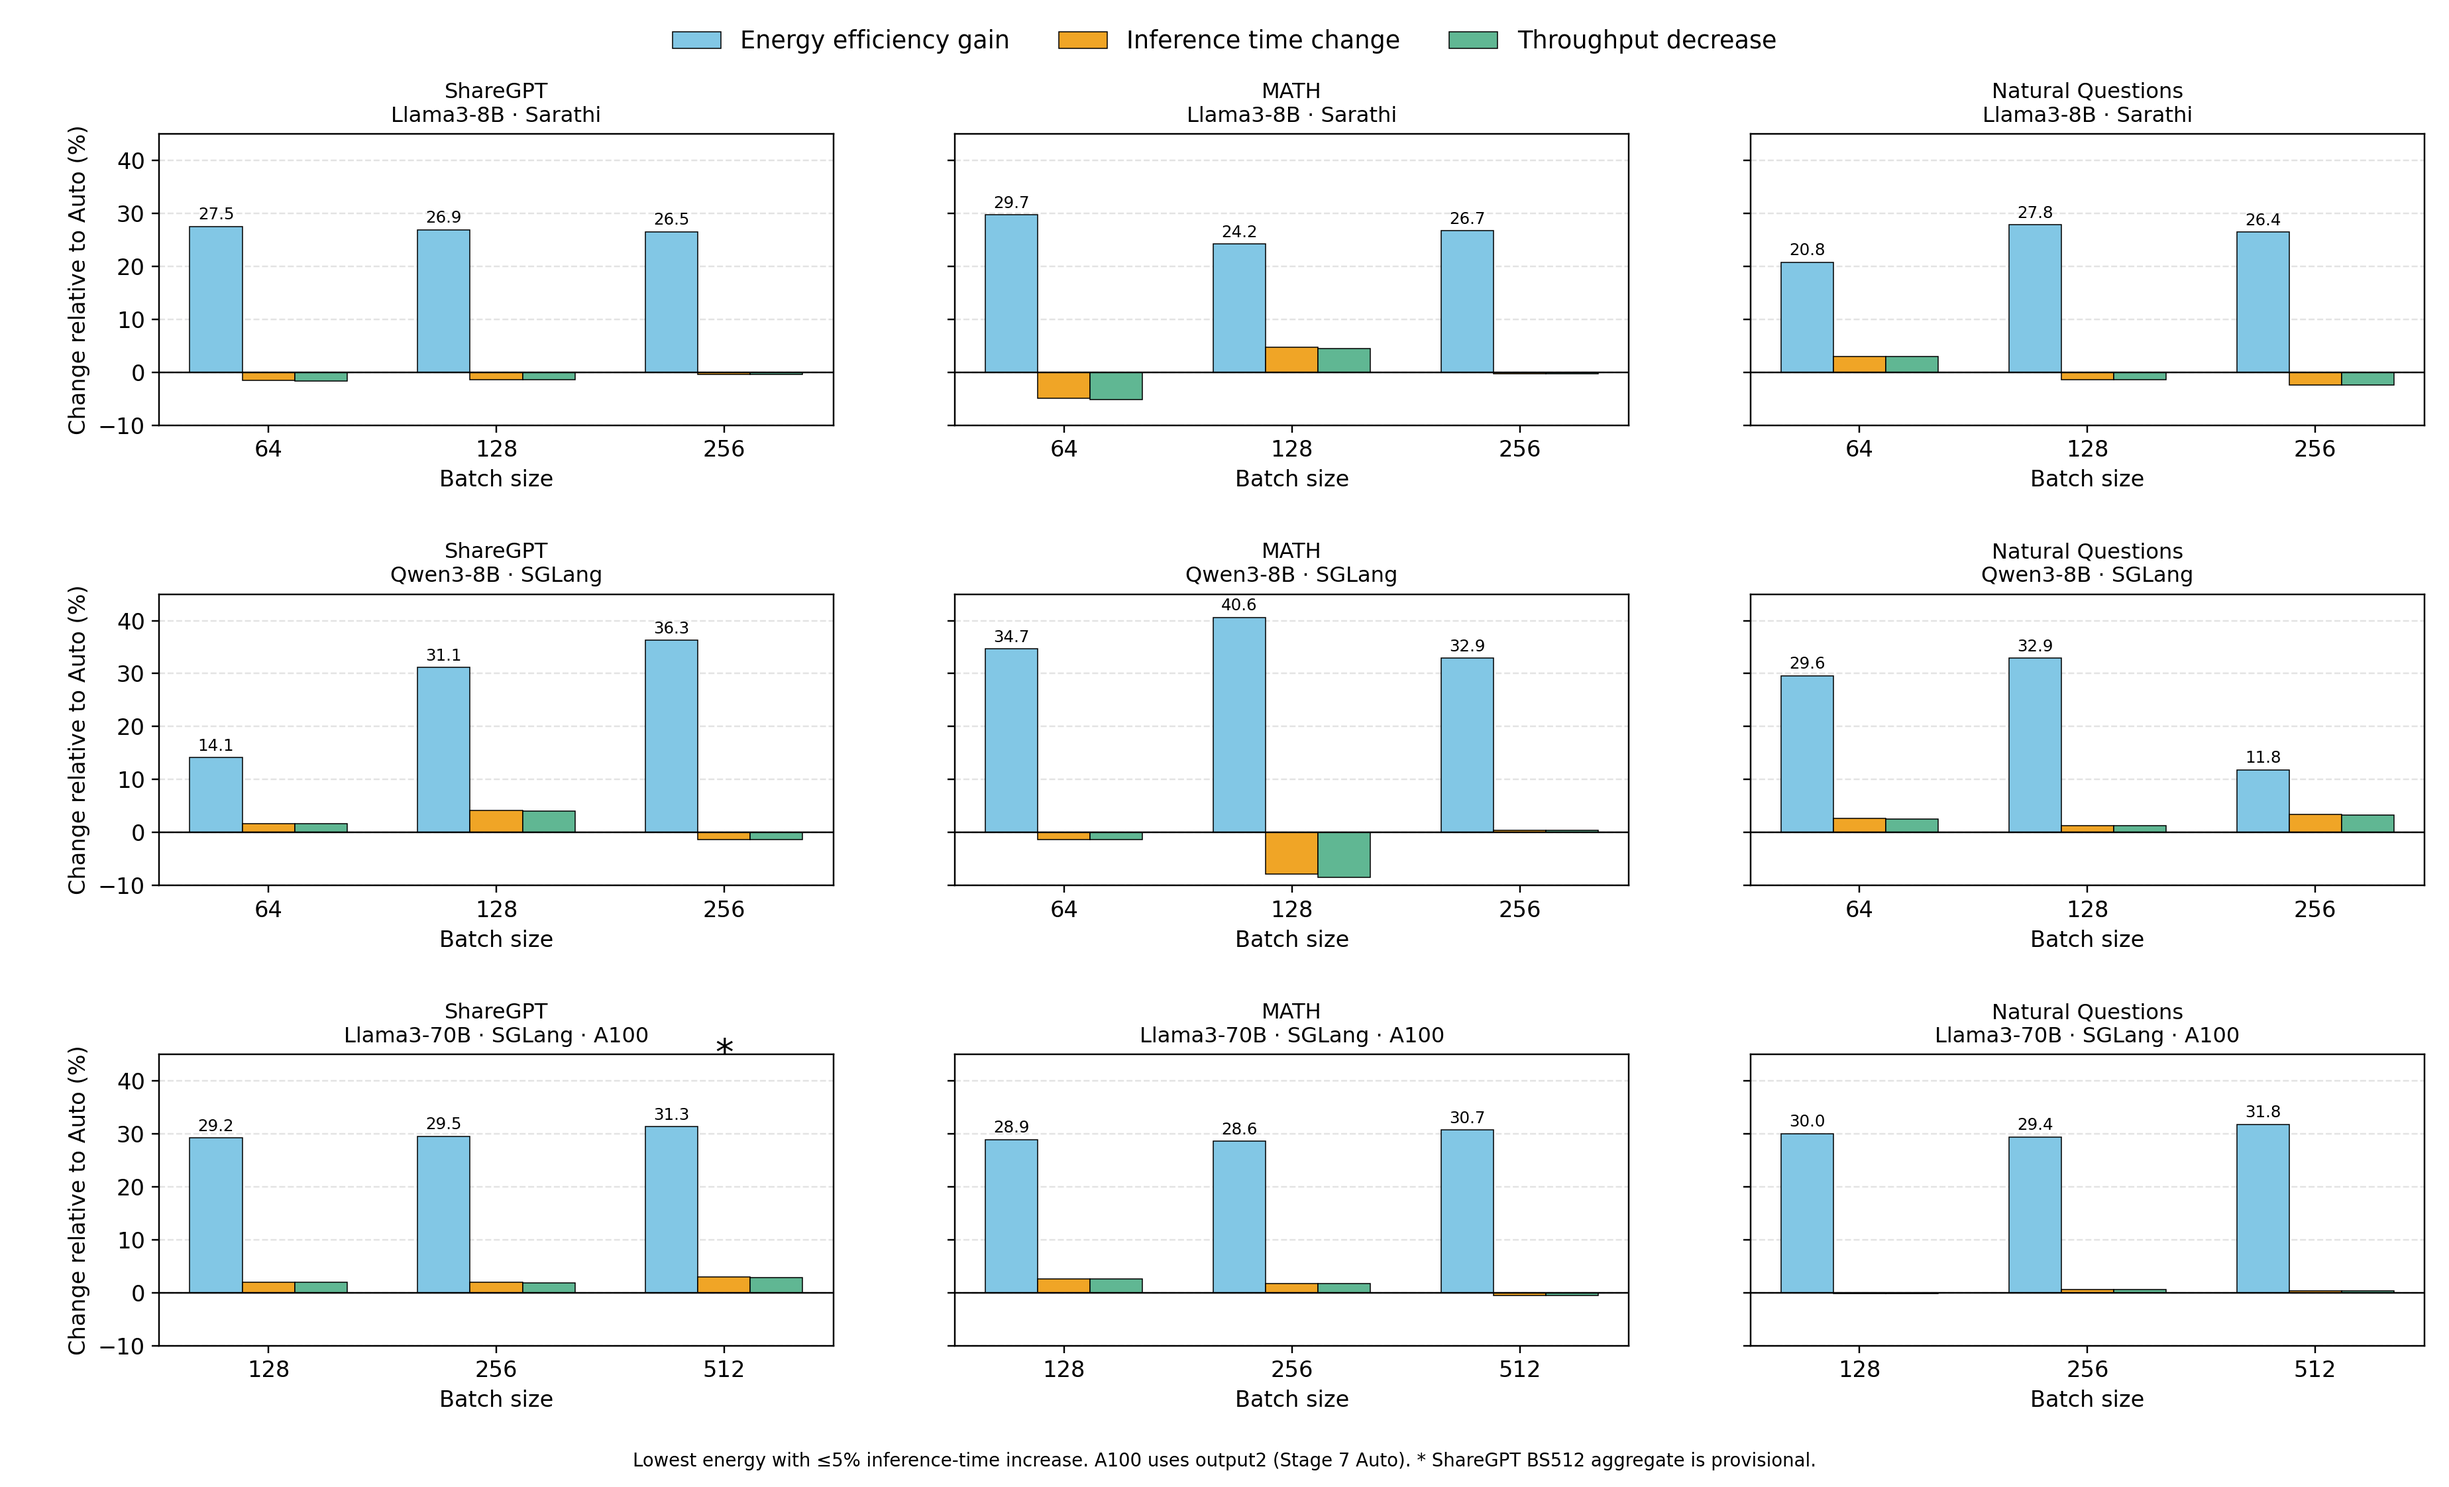
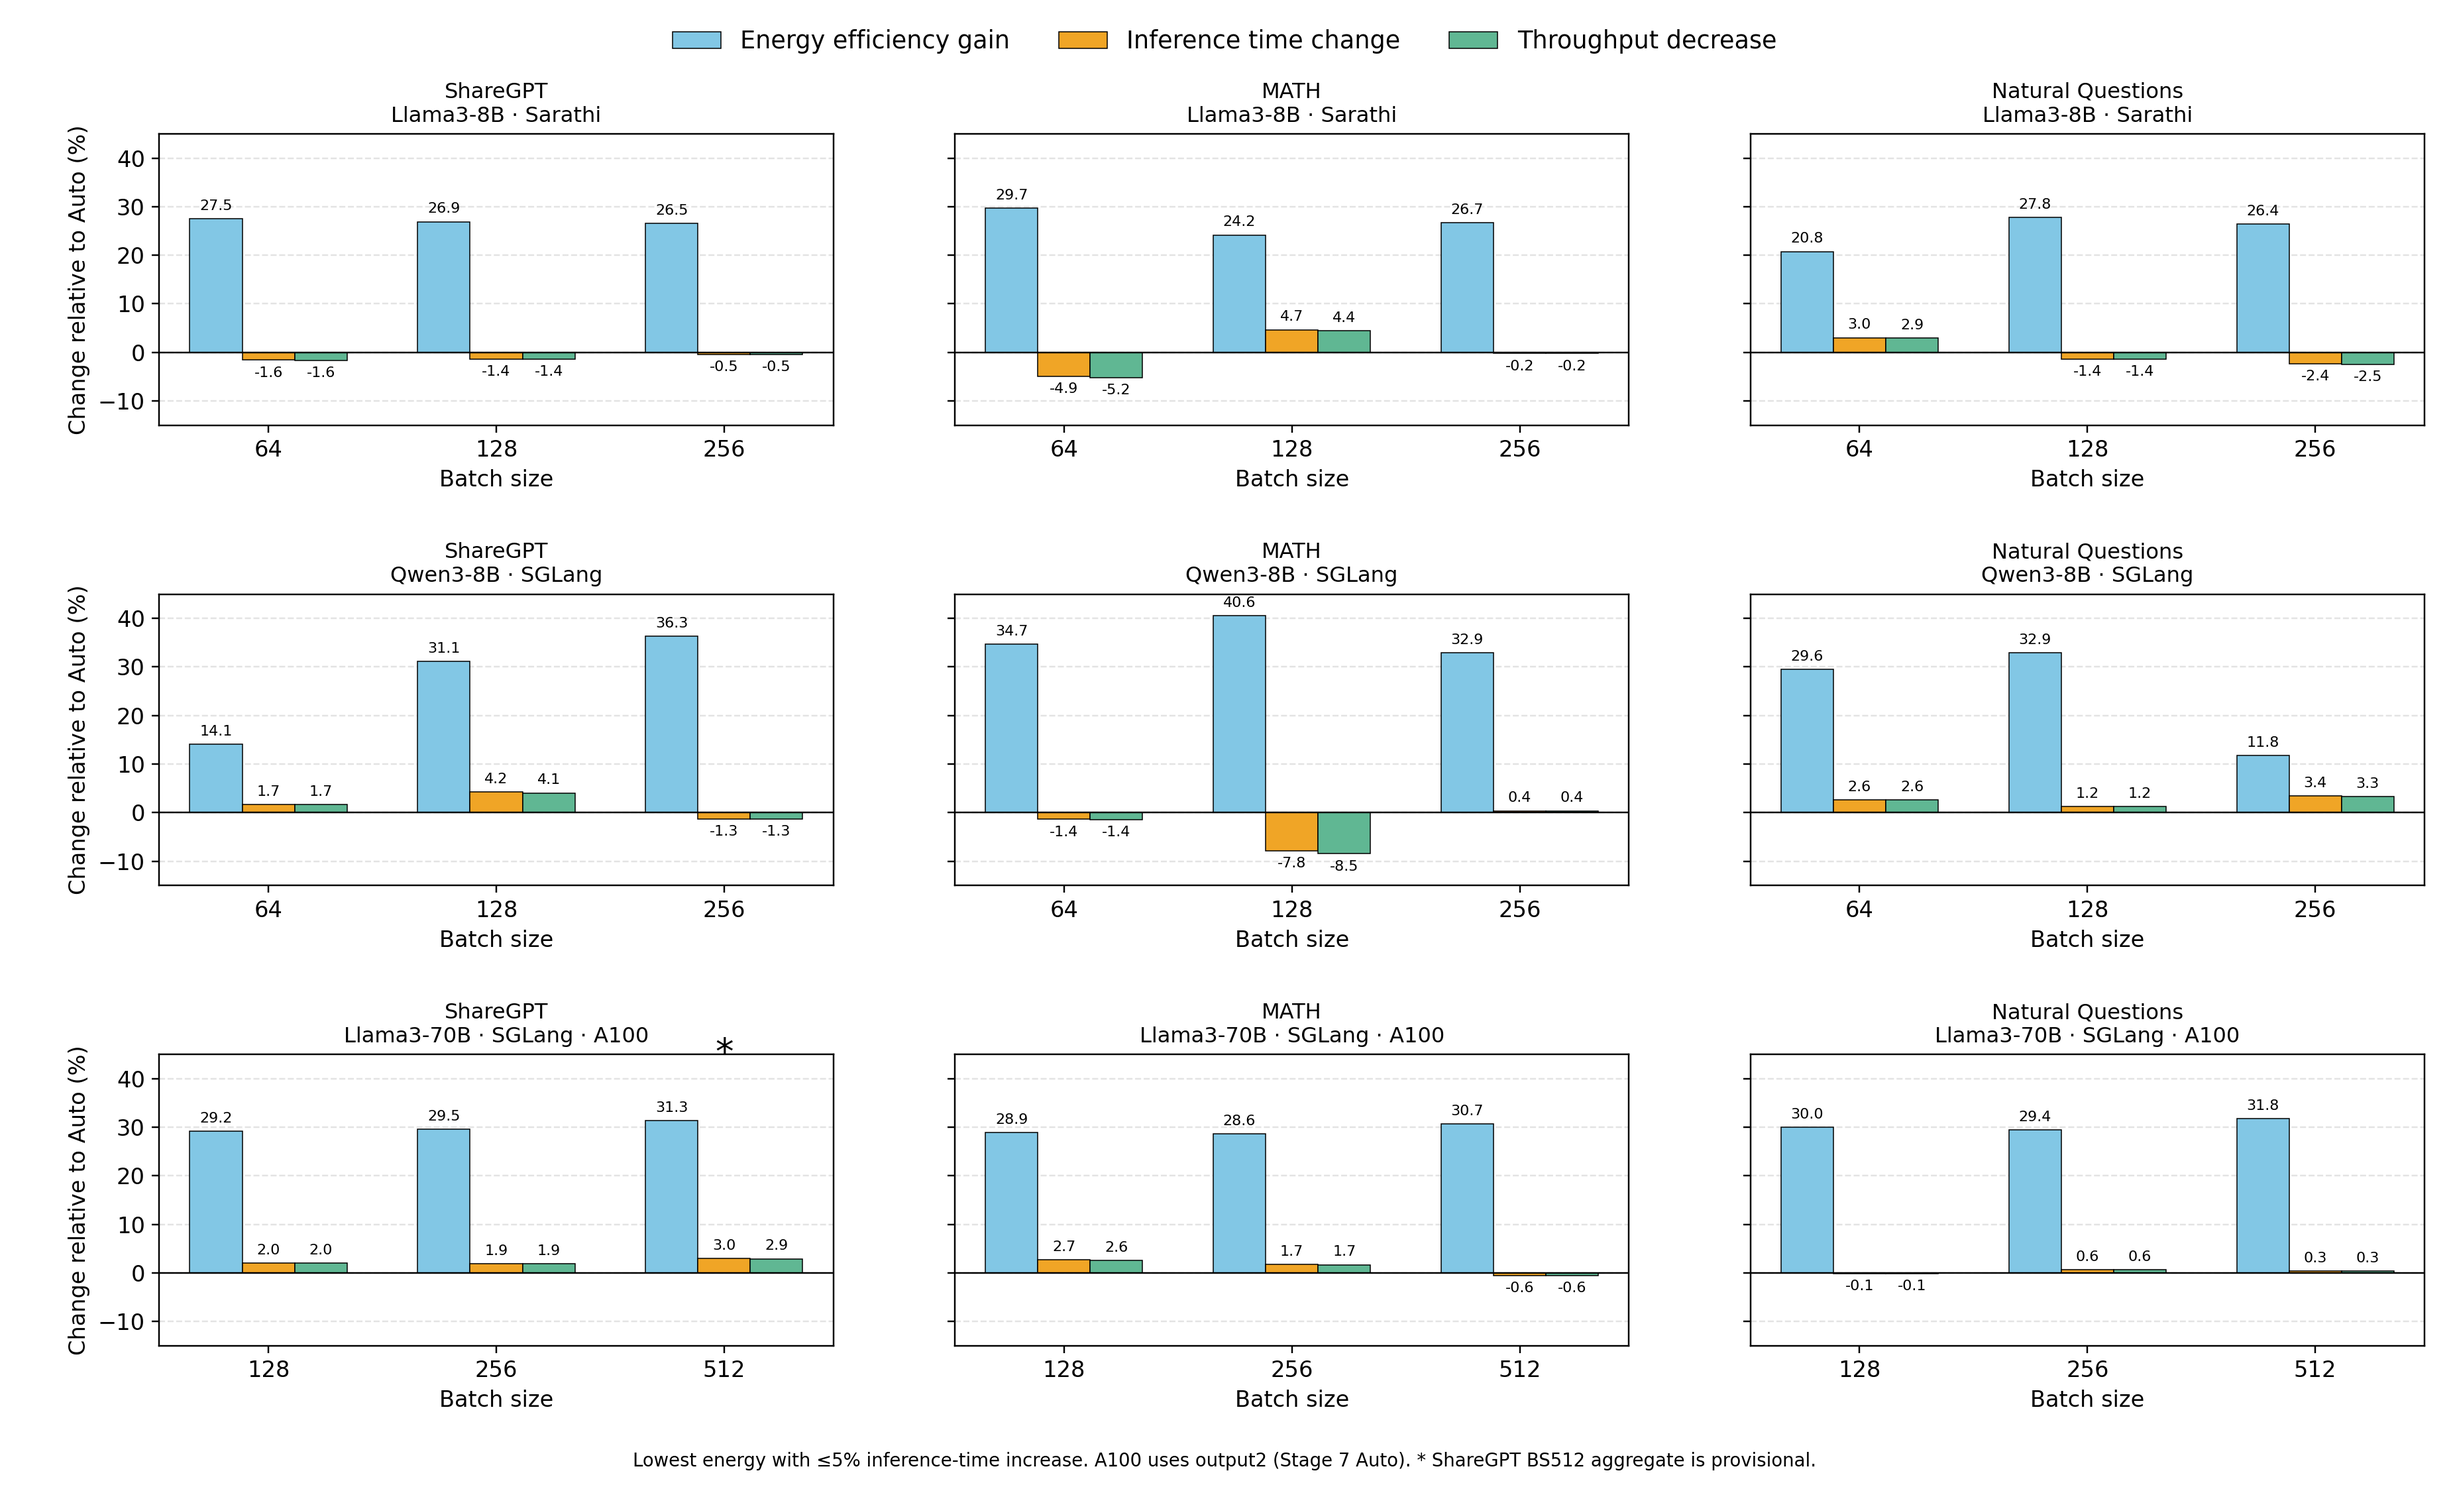
Label every Fig 9 bar with its value

diff --git a/figures/hcw_figures/fig9_throughput_decrease_20261018/plot.py b/figures/hcw_figures/fig9_throughput_decrease_20261018/plot.py
@@ -41,7 +41,7 @@ def main():
                          "axes.titlesize": 12, "axes.labelsize": 11})
     fig, axes = plt.subplots(3, 3, figsize=(16.8, 10.2), sharey=True)
     values = [float(row[key]) for row in rows for key, _, _ in METRICS]
-    ylo = 5 * np.floor(min(values) / 5)
+    ylo = 5 * np.floor((min(values) - 2) / 5)
     yhi = 5 * np.ceil((max(values) + 4) / 5)
     for i, (model, title, sizes) in enumerate(MODELS):
         for j, (dataset, dataset_title) in enumerate(DATASETS):
@@ -53,10 +53,12 @@ def main():
                 metric_values = [float(row[key]) for row in panel_rows]
                 bars = ax.bar(x + (k - 1) * width, metric_values, width,
                               label=label, color=color, edgecolor="black", linewidth=0.5)
-                if key == "energy_efficiency_improvement_pct":
-                    for bar, value in zip(bars, metric_values):
-                        ax.text(bar.get_x() + bar.get_width() / 2, value + 0.7,
-                                f"{value:.1f}", ha="center", va="bottom", fontsize=8)
+                for bar, value in zip(bars, metric_values):
+                    ax.annotate(f"{value:.1f}",
+                                (bar.get_x() + bar.get_width() / 2, value),
+                                xytext=(0, 3 if value >= 0 else -3),
+                                textcoords="offset points", ha="center",
+                                va="bottom" if value >= 0 else "top", fontsize=7.3)
             ax.set_title(f"{dataset_title}\n{title}", fontsize=10.5)
             ax.set_xticks(x, [str(bs) for bs in sizes])
             ax.set_xlabel("Batch size")

diff --git a/figures/hcw_figures/fig9_throughput_decrease_20261018/README.md b/figures/hcw_figures/fig9_throughput_decrease_20261018/README.md
@@ -16,4 +16,5 @@ change bars. The CSV retains the original signed throughput change so the
 data provenance remains clear. Blue bars still show energy-efficiency gain.
 
 The A100 ShareGPT BS512 aggregate remains marked provisional in the figure.
+Every bar is labeled with its signed percentage value, rounded to one decimal.
 The paper's LaTeX source does not yet reference this preview.
